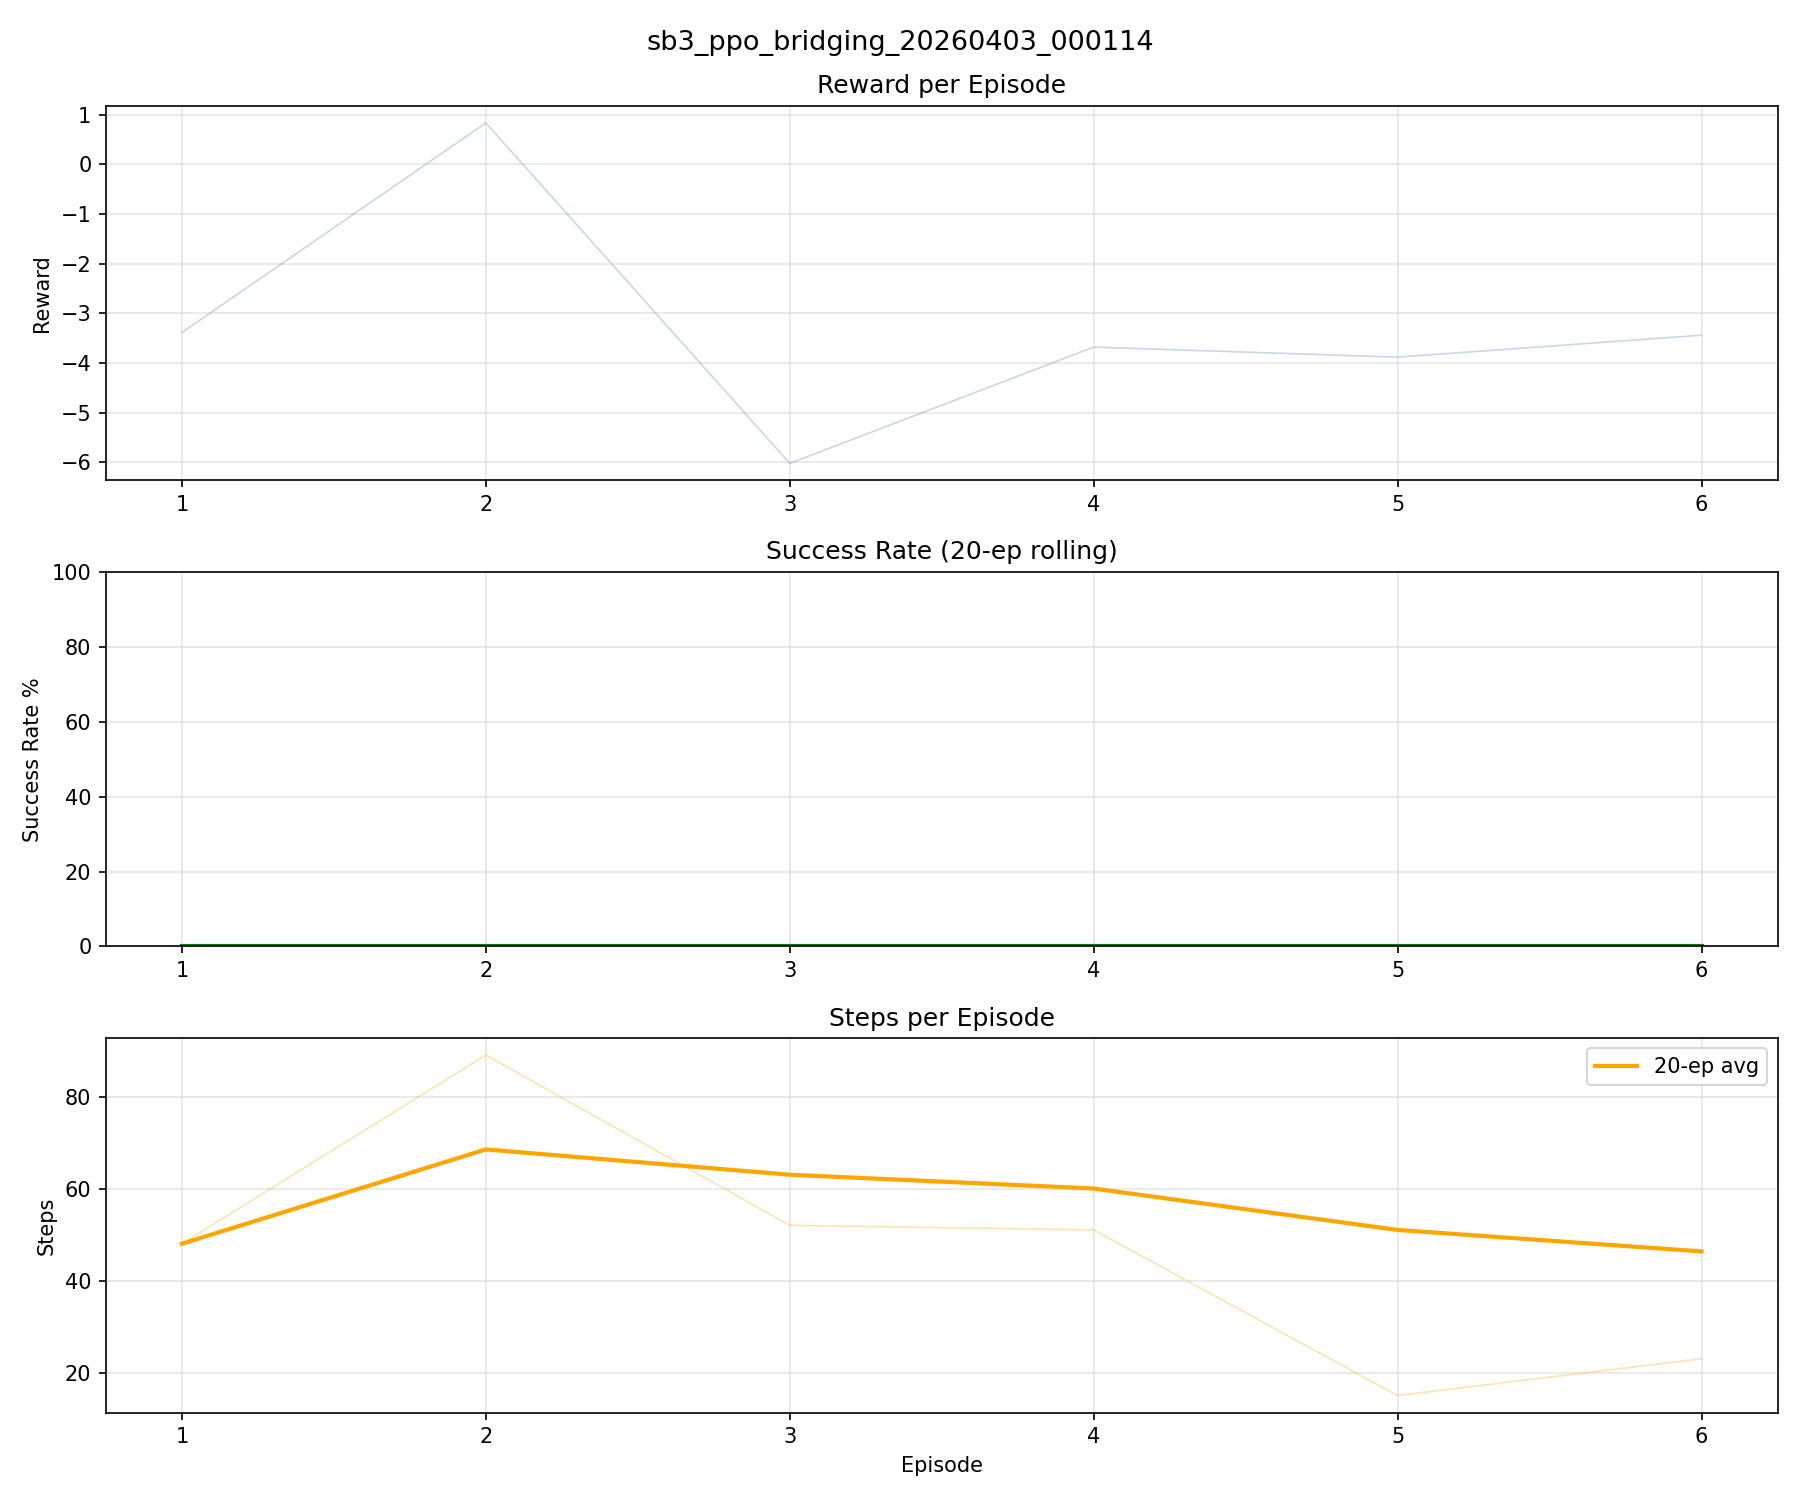
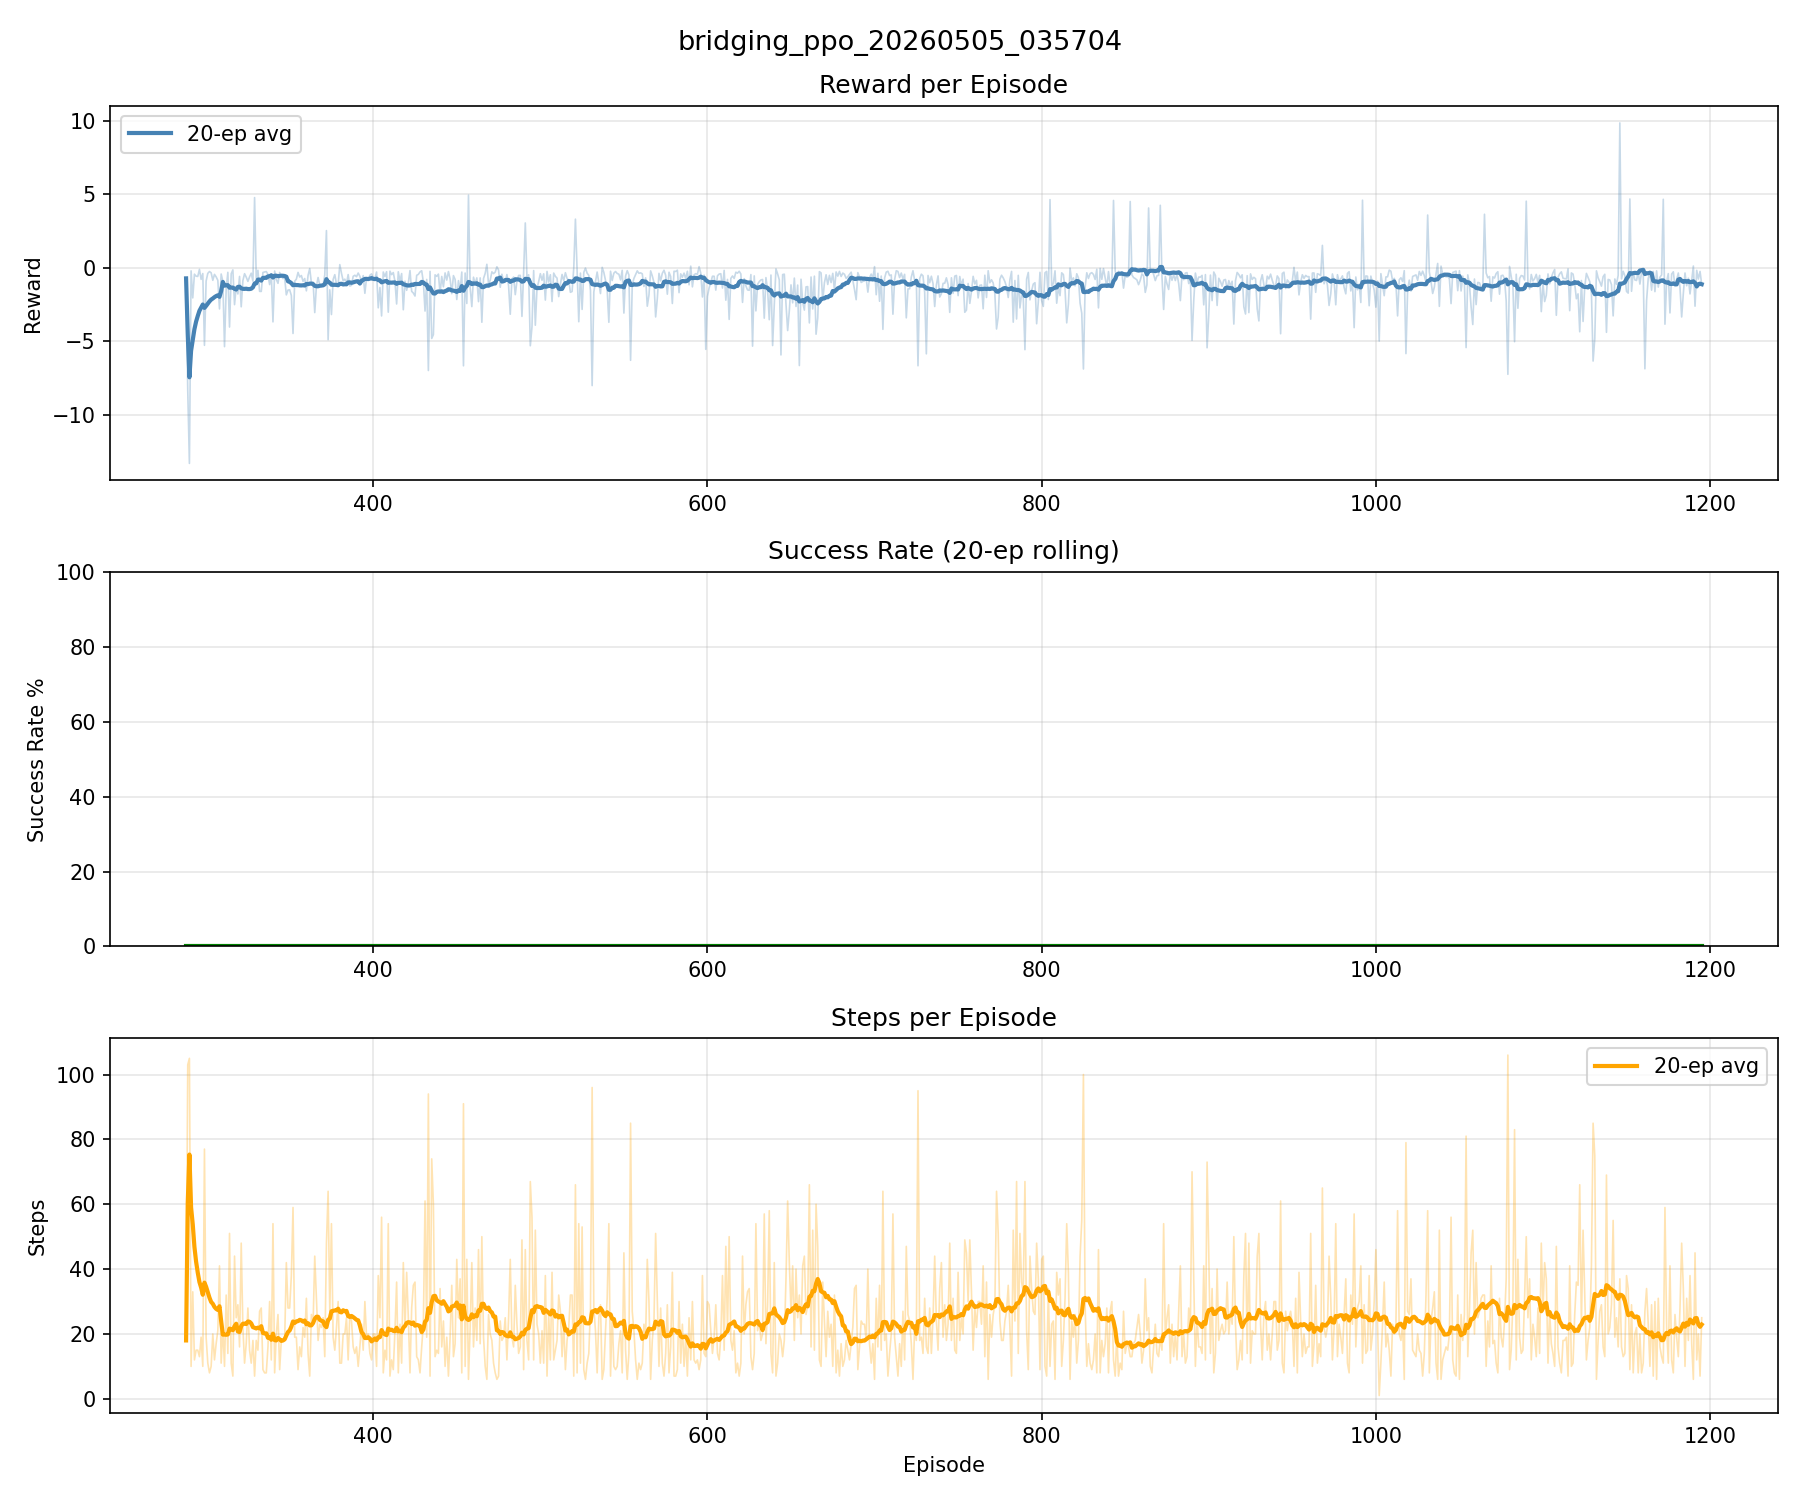
Fixed reward shaping in order to help block placement, did 1000 episodes and showed diminishing returns after 400

diff --git a/malmo/rl/visualization/plot_training.py b/malmo/rl/visualization/plot_training.py
@@ -1,5 +1,5 @@
 """
-Quick training plotter — reads the most recent PPO episodes CSV and saves a reward graph.
+Quick training plotter — plots BC loss curve and PPO reward/success/steps graphs.
 Usage:
     conda activate train_env
     python Malmo/rl/visualization/plot_training.py
@@ -17,56 +17,78 @@ LOG_DIR    = os.path.join(os.path.dirname(SCRIPT_DIR), "logs")
 OUT_DIR    = os.path.join(SCRIPT_DIR, "graphs")
 os.makedirs(OUT_DIR, exist_ok=True)
 
-# Pick the most recent ppo episodes CSV
-csvs = sorted(glob.glob(os.path.join(LOG_DIR, "*ppo*episodes.csv")))
-if not csvs:
-    raise FileNotFoundError("No PPO episode CSVs found in " + LOG_DIR)
+# ── BC loss curve ─────────────────────────────────────────────────────────────
+bc_updates = sorted(glob.glob(os.path.join(LOG_DIR, "*bc*updates.csv")))
+if bc_updates:
+    bc_path = bc_updates[-1]
+    print("BC updates:", os.path.basename(bc_path))
+    bc_df = pd.read_csv(bc_path)
 
-path = csvs[-1]
-print("Reading:", os.path.basename(path))
+    fig, axes = plt.subplots(2, 1, figsize=(10, 7))
+    fig.suptitle("BC Training — " + os.path.basename(bc_path).replace("_updates.csv", ""), fontsize=12)
 
-df = pd.read_csv(path)
-print("  Episodes loaded:", len(df))
-print("  Columns:", list(df.columns))
+    axes[0].plot(bc_df["update"], bc_df["bc_loss"], color="crimson", linewidth=2)
+    axes[0].set_ylabel("BC Loss")
+    axes[0].set_title("Loss (lower = better)")
+    axes[0].grid(True, alpha=0.3)
 
-fig, axes = plt.subplots(3, 1, figsize=(12, 10))
-fig.suptitle(os.path.basename(path).replace("_episodes.csv", ""), fontsize=13)
+    axes[1].plot(bc_df["update"], bc_df["accuracy"] * 100, color="steelblue", linewidth=2)
+    axes[1].set_ylabel("Accuracy %")
+    axes[1].set_title("Action Prediction Accuracy (higher = better)")
+    axes[1].set_xlabel("Update")
+    axes[1].grid(True, alpha=0.3)
 
-# ── Reward curve ──────────────────────────────────────────────────────────────
-ax = axes[0]
-ax.plot(df["episode"], df["reward"], alpha=0.3, color="steelblue", linewidth=0.8)
-if len(df) >= 10:
-    rolling = df["reward"].rolling(window=20, min_periods=1).mean()
-    ax.plot(df["episode"], rolling, color="steelblue", linewidth=2, label="20-ep avg")
-    ax.legend()
-ax.set_ylabel("Reward")
-ax.set_title("Reward per Episode")
-ax.grid(True, alpha=0.3)
+    plt.tight_layout()
+    out = os.path.join(OUT_DIR, "bc_loss.png")
+    plt.savefig(out, dpi=150)
+    print("Saved to:", out)
+    plt.close()
 
-# ── Success rate ──────────────────────────────────────────────────────────────
-ax = axes[1]
-if "outcome" in df.columns:
-    df["success"] = (df["outcome"] == "landed").astype(float)
-    rolling_sr = df["success"].rolling(window=20, min_periods=1).mean() * 100
-    ax.plot(df["episode"], rolling_sr, color="green", linewidth=2)
-    ax.set_ylim(0, 100)
-    ax.set_ylabel("Success Rate %")
-    ax.set_title("Success Rate (20-ep rolling)")
+# ── PPO reward/success/steps ──────────────────────────────────────────────────
+ppo_csvs = sorted([f for f in glob.glob(os.path.join(LOG_DIR, "*ppo*episodes.csv"))
+                   if "sb3" not in os.path.basename(f)])
+if not ppo_csvs:
+    print("No PPO episode CSVs found — skipping PPO plots.")
+else:
+    path = ppo_csvs[-1]
+    print("PPO episodes:", os.path.basename(path))
+    df = pd.read_csv(path)
+
+    fig, axes = plt.subplots(3, 1, figsize=(12, 10))
+    fig.suptitle(os.path.basename(path).replace("_episodes.csv", ""), fontsize=13)
+
+    ax = axes[0]
+    ax.plot(df["episode"], df["reward"], alpha=0.3, color="steelblue", linewidth=0.8)
+    if len(df) >= 10:
+        rolling = df["reward"].rolling(window=20, min_periods=1).mean()
+        ax.plot(df["episode"], rolling, color="steelblue", linewidth=2, label="20-ep avg")
+        ax.legend()
+    ax.set_ylabel("Reward")
+    ax.set_title("Reward per Episode")
     ax.grid(True, alpha=0.3)
 
-# ── Steps per episode ─────────────────────────────────────────────────────────
-ax = axes[2]
-if "steps" in df.columns:
-    ax.plot(df["episode"], df["steps"], alpha=0.3, color="orange", linewidth=0.8)
-    rolling_steps = df["steps"].rolling(window=20, min_periods=1).mean()
-    ax.plot(df["episode"], rolling_steps, color="orange", linewidth=2, label="20-ep avg")
-    ax.legend()
-    ax.set_ylabel("Steps")
-    ax.set_title("Steps per Episode")
-    ax.set_xlabel("Episode")
-    ax.grid(True, alpha=0.3)
+    ax = axes[1]
+    if "outcome" in df.columns:
+        df["success"] = (df["outcome"] == "landed").astype(float)
+        rolling_sr = df["success"].rolling(window=20, min_periods=1).mean() * 100
+        ax.plot(df["episode"], rolling_sr, color="green", linewidth=2)
+        ax.set_ylim(0, 100)
+        ax.set_ylabel("Success Rate %")
+        ax.set_title("Success Rate (20-ep rolling)")
+        ax.grid(True, alpha=0.3)
 
-plt.tight_layout()
-out_path = os.path.join(OUT_DIR, "ppo_training.png")
-plt.savefig(out_path, dpi=150)
-print("Saved to:", out_path)
+    ax = axes[2]
+    if "steps" in df.columns:
+        ax.plot(df["episode"], df["steps"], alpha=0.3, color="orange", linewidth=0.8)
+        rolling_steps = df["steps"].rolling(window=20, min_periods=1).mean()
+        ax.plot(df["episode"], rolling_steps, color="orange", linewidth=2, label="20-ep avg")
+        ax.legend()
+        ax.set_ylabel("Steps")
+        ax.set_title("Steps per Episode")
+        ax.set_xlabel("Episode")
+        ax.grid(True, alpha=0.3)
+
+    plt.tight_layout()
+    out_path = os.path.join(OUT_DIR, "ppo_training.png")
+    plt.savefig(out_path, dpi=150)
+    print("Saved to:", out_path)

diff --git a/malmo/rl/training/configs/bridging_cfg.py b/malmo/rl/training/configs/bridging_cfg.py
@@ -81,9 +81,9 @@ class BridgingCFG(BaseCFG):
     # same step as placement.
     REWARD_BLOCK_PLACED_VALID   = +5.0   # block placed while in (or just before) the gap zone
     REWARD_BLOCK_PLACED_WASTED  =  0.0   # no penalty for off-target placement — any placement is exploration
-    REWARD_SNEAK_PLACE          = +0.3   # bonus on valid placement when crouched (+1.3 total)
+    REWARD_SNEAK_PLACE          = +2.0   # bonus on valid placement when crouched — core speed bridge mechanic
 
-    REWARD_STEP_PENALTY  = -0.01   # reduced from -0.02: setup actions (turn-around) are less penalised
+    REWARD_STEP_PENALTY  = -0.05   # stronger time pressure to incentivise speed bridging
     REWARD_PROGRESS_COEF = +20.0   # per new Z-block reached — primary signal, must dominate placement
 
     # ── Behavioural shaping ───────────────────────────────────────────────────
@@ -102,8 +102,8 @@ class BridgingCFG(BaseCFG):
     REWARD_LOOK_BACK = +0.002   # max reward when facing directly backward (-Z)
 
     # Stall: additional per-step penalty when z-progress stalls beyond threshold
-    STALL_THRESHOLD = 15     # steps without z-progress before penalty begins
-    REWARD_STALL    = -0.02  # extra per-step cost during stall (stacks with step penalty)
+    STALL_THRESHOLD = 10     # steps without z-progress before penalty begins
+    REWARD_STALL    = -0.05  # extra per-step cost during stall (stacks with step penalty)
 
     # ── Bridge geometry (gap zone) ────────────────────────────────────────────
     BRIDGE_Z_START = 2     # first Z of the gap

diff --git a/check_demos.py b/check_demos.py
@@ -1,0 +1,13 @@
+import json, sys
+sys.path.insert(0, 'Malmo/rl')
+with open('Malmo/demos/bridging_advanced.json') as f:
+    d = json.load(f)
+first_obs = d['episodes'][0]['steps'][0]['obs']
+print('Demo obs size:', len(first_obs))
+from training.configs.bridging_cfg import BridgingCFG
+print('Config INPUT_SIZE:', BridgingCFG.INPUT_SIZE)
+print('Match:', len(first_obs) == BridgingCFG.INPUT_SIZE)
+actions = [s['action'] for ep in d['episodes'] for s in ep['steps']]
+print('Total demo steps:', len(actions))
+print('Place block (action 10) count:', actions.count(10))
+print('Place block %:', round(actions.count(10)/len(actions)*100, 1))

diff --git a/malmo/rl/envs/bridging_env.py b/malmo/rl/envs/bridging_env.py
@@ -583,7 +583,7 @@ class BridgingEnv:
         # Also drives the stall counter used by _get_shaping_reward.
         z_progress_reward = 0.0
         if z > self._max_z:
-            if on_ground:
+            if on_ground and z >= self.cfg.BRIDGE_Z_START:
                 z_capped = min(z, self.cfg.Z_SUCCESS)
                 z_progress_reward = self.cfg.REWARD_PROGRESS_COEF * (z_capped - self._max_z)
             self._max_z = z
